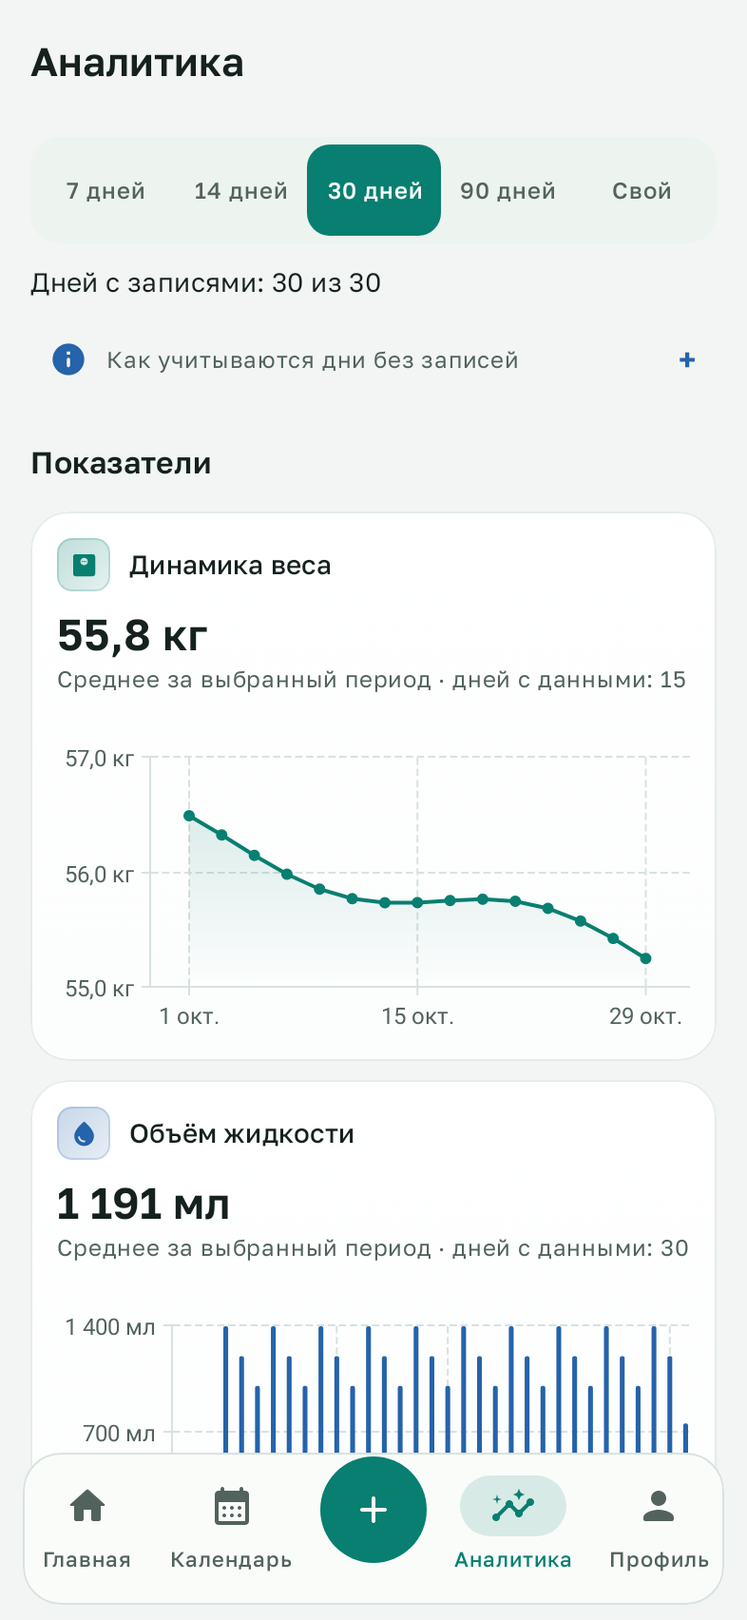
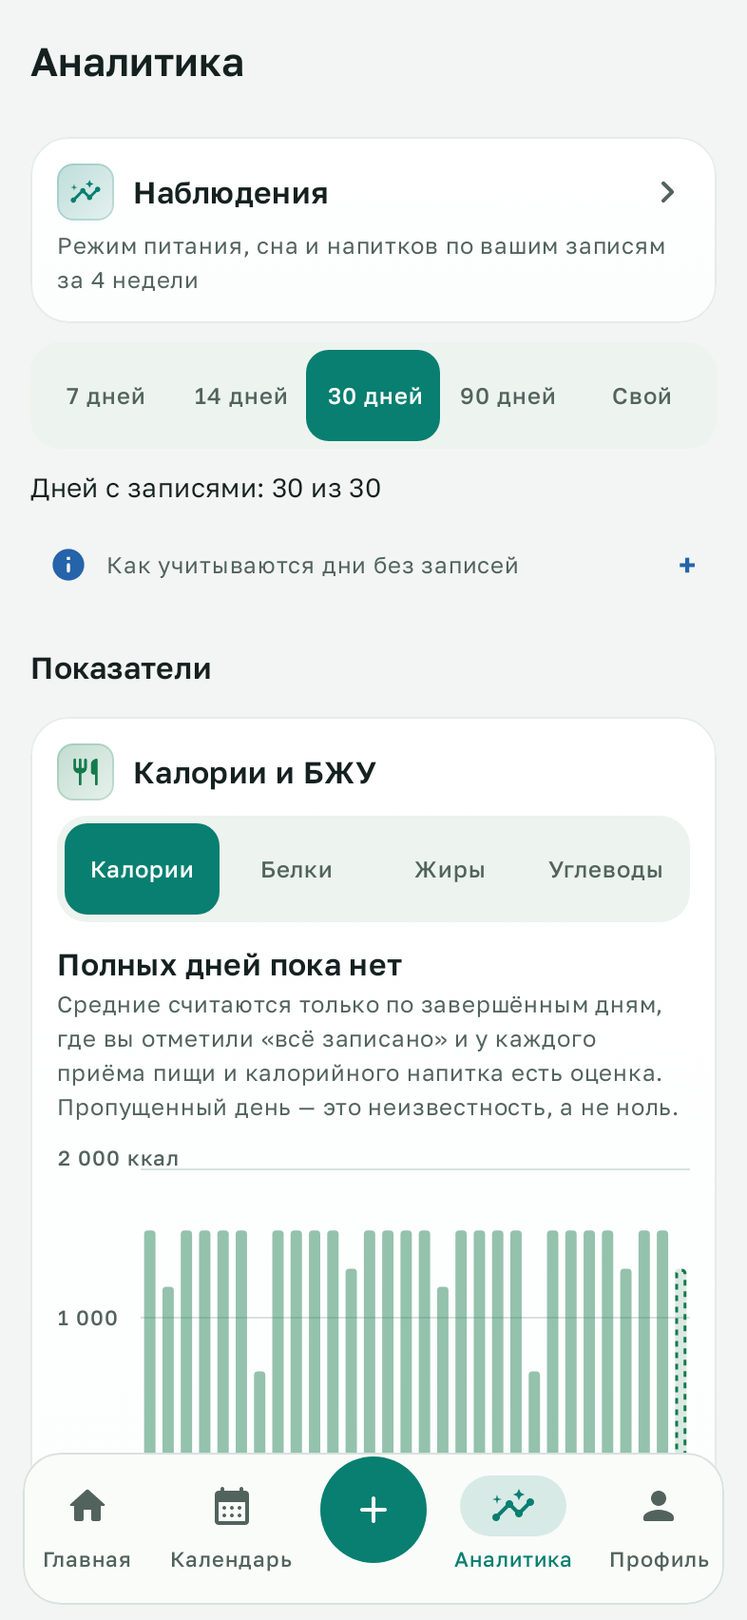
Document drink energy, full days and the intake chart; bump to 1.9.0
docs/intake.md describes drink energy and its defaults, the link to a
meal, the day total and its states, the chart and the observations that
use complete days only. README, insights, data safety and meals docs
point to it; release notes for 1.9.0 (versionCode 11) say that older
drinks and templates keep an unknown energy.

Claude-Session: https://claude.ai/code/session_01XiGzQFSXEqEG1oN3wuxTaX

diff --git a/docs/intake.md b/docs/intake.md
@@ -1,0 +1,94 @@
+# Калории за день: напитки, полные дни и график
+
+Итог дня складывается из еды и калорийных напитков. Каждая запись учитывается один раз. Неизвестное значение остаётся неизвестным. Средние считаются только по дням, которые можно честно назвать потреблением за день.
+
+![График калорий и состав дня](screenshots/50-intake-chart.png)
+
+## Калорийность напитков
+
+В редакторе напитка есть раздел «Калорийность»:
+
+| Выбор | Что значит |
+| --- | --- |
+| Без калорий | Чай или кофе без добавок, вода. День из-за такого напитка неполным не становится. |
+| Указать | Ккал и при желании Б/Ж/У. Можно указать **на 100 мл**, как на этикетке (тогда значение растёт с объёмом), или **на весь напиток**: например, ложка сахара не удваивается от большой кружки. |
+| Не знаю | Калорийность неизвестна. День с таким напитком считается оценённым не полностью. |
+
+Примерные значения подставляются одним нажатием: молоко 1,5 / 2,5 / 3,2 %, кефир, сок, сладкая газировка, капучино, какао, ложка сахара. Это средние значения, точнее всего данные с этикетки.
+
+Что выбрано заранее:
+
+- Вода всегда без калорий, указывать ничего не нужно.
+- Новый чай и кофе начинаются с «Без калорий». Выбор виден в редакторе и меняется одним нажатием. Быстрое добавление чая и кофе тоже записывает «Без калорий».
+- Молоко, сок и «другой напиток» начинаются с «Не знаю».
+- Шаблон напитка хранит свою калорийность и передаёт её каждой записи из шаблона.
+- Напитки и шаблоны, записанные до версии 1.9.0, сохраняют неизвестную калорийность. Старый кофе не считается кофе без молока. Откройте шаблон один раз и выберите нужный вариант.
+
+В списке напитков рядом с объёмом показано «≈90 ккал» или «ккал не указаны». Для воды и напитков без калорий там ничего не пишется.
+
+## Напиток к приёму пищи
+
+Напиток можно привязать к приёму пищи того же дня («К приёму пищи» в редакторе напитка). Приём пищи показывает привязанные напитки в разделе «Напитки к этому приёму». Там же кнопка «Добавить напиток к приёму» открывает новый напиток со временем приёма.
+
+Напиток остаётся отдельной записью: его объём идёт в жидкость, а калории в итог дня. В итог самого приёма пищи они не добавляются, поэтому ничего не считается дважды. Если тот же напиток уже записан блюдом (например, компот на фото обеда), удалите одно из двух. Приложение напоминает об этом рядом с привязанными напитками. Если напиток перенести на другой день, привязка снимается. После удаления приёма с отменой привязка возвращается вместе с приёмом.
+
+## Итог дня
+
+Итог дня считает одно место в коде, `DayIntake`. Дневник, график, наблюдения и экспорт берут цифры оттуда.
+
+- В итог идут приёмы пищи и напитки, которые могут нести калории. Вода и напитки без калорий не учитываются.
+- Каждый показатель (ккал, белки, жиры, углеводы) имеет своё покрытие: калории могут быть известны у всех записей, а жиры только у части.
+- Если значение есть не у всех записей, итог подписан «известно ≈1 200 ккал». Рядом стоит «Оценено 3 из 4 записей: итог неполный». В «известно» входит и известная часть приёма с частично оценёнными блюдами, поэтому сумма совпадает с тем, что видно в дневнике.
+- Если калории есть и у еды, и у напитков, показано, из чего сложился итог: «Еда ≈1 500 ккал + напитки ≈90 ккал».
+
+## Полный день
+
+Оценки по записям не равны всему, что было съедено. Если один приём забыли записать, сумма остальных не является потреблением за день. Поэтому есть отметка **«Всё за день записано»**. Её ставит сам пользователь: в карточке «Сегодня» дневника питания, переключателем «всё записано» у прошлых дней и в составе дня на графике.
+
+У дня одно из состояний:
+
+| Состояние | Когда |
+| --- | --- |
+| Полный день | День закончился, отмечен «всё записано», у каждого приёма и калорийного напитка есть значение. |
+| Не отмечен как полный | Всё оценено, но отметки нет. |
+| Оценено не всё | У какой-то записи нет значения. |
+| Сегодня, день ещё идёт | Текущий день не входит в завершённые средние, даже если отмечен. |
+| Нет записей | Ни еды, ни калорийных напитков. Это неизвестность, а не ноль. |
+
+Отметка говорит только о полноте записей, не о точности: оценка по фото остаётся оценкой.
+
+## График «Калории и БЖУ»
+
+В «Аналитике» над остальными показателями есть карточка с периодами 7/14/30/90 дней и своим интервалом. Переключатель выбирает ккал, белки, жиры или углеводы. Разные единицы на одной шкале не смешиваются.
+
+- Столбец на каждый день. Полный день закрашен. Не отмеченный как полный закрашен светлее. Оценённый не полностью показан контуром. Сегодня обведено пунктиром. День без записей отмечен точкой у оси, а не нулевым столбцом. Пропуски ничем не соединяются.
+- Над графиком среднее только по полным завершённым дням и их число: «среднее по 5 полным дням из 29 завершённых». Если таких дней нет, так и написано, и объяснено, как они появляются.
+- Нажатие на столбец открывает состав дня: каждый приём и напиток со своим значением (или «не указано»), состояние дня и переключатель «Всё за день записано». Запись открывается нажатием. Для ккал при известных Б/Ж/У показана грубая проверка «Из БЖУ ≈… ккал» по 4/9/4 ккал на грамм.
+
+Ориентиров по калориям пока нет. Они появятся на следующем этапе, вместе с профилем, и будут храниться с датой начала действия.
+
+## Наблюдения
+
+Наблюдения «Питание по полным дням» и «Сон и питание» считаются только по полным дням (минимум 5 дней; для сна и питания 7 пар «день + ночь»). Напитки с калориями входят и в среднее, и в долю калорий после 18:00. В облачный разбор этот факт передаётся как `complete_days` (контракт версии 4). Ограничение данных в обзоре за 4 недели называет, сколько полных дней есть среди дней с едой, и предлагает отмечать такие дни.
+
+## База, резервная копия и экспорт
+
+База обновляется до версии 4 миграцией 3→4: у напитков и шаблонов появляется калорийность (пустая у прежних записей), у напитков появляется связь с приёмом, добавлена таблица отмеченных дней. Всё это входит в резервную копию и стирается вместе с дневником.
+
+В CSV-архиве у `drinks.csv` есть колонки `energy` (none / value / unknown), ккал и Б/Ж/У этого напитка, `entered_per` и `meal_id`. Новый `days.csv` содержит по строке на каждый день периода: состояние, отметку, число записей, известную сумму и сколько записей оценено по каждому показателю. В JSON-выгрузке у напитков есть `nutrition` и `mealId`, а список `daysRecordedFully` содержит отмеченные дни.
+
+## Проверка
+
+- `DayIntakeTest` проверяет:
+  - еду и сок, сложенные один раз, без воды и чая без калорий;
+  - что неизвестный напиток не превращается в ноль;
+  - известную часть частично оценённого приёма;
+  - все состояния дня и отдельное покрытие каждого показателя;
+  - значения на 100 мл и на весь напиток;
+  - средние только по полным дням и пустые дни как пропуски.
+- `InsightEngineTest` проверяет, что дни с неоценённым приёмом или без отметки не дают «Питания по полным дням», и что напитки входят в среднее и в вечернюю долю.
+- `DrinkEditorSafetyTest` проверяет выбор по типу, сохранение выбранного значения при смене типа, блокировку сохранения при недописанном числе, открытие старого напитка как неизвестного и привязку к приёму с её снятием при переносе на другой день.
+- `NutritionMigrationTest` проверяет базу версии 3: старый кофе и шаблон остаются неизвестными, новые значения, привязка и отметки дней сохраняются.
+- `IntakeUiTest` в настоящем приложении проверяет среднее по трём полным дням, состав неполного и полного дня, снятие отметки и переход к напитку.
+
+![Калорийность напитка](screenshots/51-drink-energy.png)

diff --git a/docs/releases/v1.9.0.md b/docs/releases/v1.9.0.md
@@ -1,0 +1,18 @@
+Калорийные напитки, полные дни и график калорий и БЖУ.
+
+Изменения:
+
+- У напитка есть калорийность: «Без калорий», «Указать» (на 100 мл, как на этикетке, или на весь напиток) или «Не знаю». Примерные значения для молока, кефира, сока, газировки, капучино, какао и ложки сахара подставляются одним нажатием. Вода всегда без калорий, новый чай и кофе начинаются с «Без калорий». Шаблоны напитков хранят свою калорийность.
+- Напиток можно привязать к приёму пищи: в приёме он виден, а объём и калории считаются один раз, в напитках.
+- Итог дня складывается из еды и калорийных напитков. Если что-то не оценено, итог подписан «известно ≈X» и показано, сколько записей оценено.
+- Отметка «Всё за день записано» в дневнике питания. Средние и наблюдения о питании считаются только по полным дням: день закончился, отмечен и у каждой записи есть оценка. Сумма части записей больше не выдаётся за потребление за день.
+- В «Аналитике» есть график «Калории и БЖУ». Полные, неотмеченные, неполные дни и сегодня выглядят по-разному, день без записей остаётся пропуском, а не нулём. Среднее показано по полным дням с их числом. Нажатие на день показывает его состав и позволяет отметить его полным.
+- В CSV-архиве у напитков есть калорийность и привязка к приёму, добавлен `days.csv` с итогом и покрытием каждого дня.
+
+Важно: напитки и шаблоны, записанные раньше, сохраняют неизвестную калорийность. Старый кофе не считается кофе без молока. Если в шаблоне чай или кофе без добавок, откройте шаблон и выберите «Без калорий». Средних по калориям не будет, пока не появятся отмеченные полные дни.
+
+Скачайте и откройте **NUTRIX.apk** из файлов релиза. Требуется Android 10 или новее. Версия приложения: **1.9.0-personal**, versionCode **11**.
+
+APK подписан прежним проектным сертификатом и устанавливается обновлением поверх предыдущей версии без удаления приложения и данных. Контрольная сумма находится в SHA256SUMS.txt.
+
+База данных обновляется до версии 4 автоматически, прежние записи не меняются. Резервные копии прежних версий восстанавливаются как раньше. Приложение не ставит диагнозы и не заменяет консультацию врача.

diff --git a/docs/insights.md b/docs/insights.md
@@ -9,8 +9,8 @@
 | Режим питания | ≥ 7 дней с едой | Медианы первого и последнего приёма, окно питания, приёмов в день, межквартильный разброс времени первого приёма, дни с началом после 12:00. Перекус с 00:00 до 04:00 относится к прошлому вечеру. |
 | Поздний последний приём | ≥ 3 таких дня и ≥ 30 % дней | С данными сна — меньше 2 ч до засыпания; без них — после 22:00. При ≥ 4 ночах каждого вида и разнице ≥ 20 мин показана разница сна. |
 | Длинные перерывы | ≥ 3 дней и ≥ 25 % дней с двумя приёмами | Перерыв между приёмами пищи больше 6 ч и медиана самого длинного перерыва дня. |
-| Питание по оценкам | ≥ 5 дней, где ≥ 2 и ≥ 70 % приёмов имеют оценку ккал | Средние ккал, БЖУ (если они оценены у большинства приёмов) и доля калорий после 18:00. |
-| Сон и питание | ≥ 4 коротких и ≥ 4 других ночей, разница ≥ 200 ккал | Ккал в день после ночи, которая на час короче вашей медианы, против других дней. |
+| Питание по полным дням | ≥ 5 полных дней: отмечены «всё записано», у каждого приёма и калорийного напитка есть оценка ([подробнее](intake.md)) | Средние ккал с напитками, БЖУ (по ≥ 5 дням, где оценён этот показатель) и доля калорий после 18:00. Дни с неоценённым приёмом или без отметки не используются: сумма части записей — не потребление за день. |
+| Сон и питание | ≥ 7 полных дней с ночью, ≥ 4 коротких и ≥ 4 других ночей, разница ≥ 200 ккал | Ккал полного дня после ночи, которая на час короче вашей медианы, против других полных дней. |
 | Напитки | ≥ 7 дней с напитками | Медиана за день, доля до 14:00, дни с достигнутым ориентиром. |
 | Кофе после 16:00 | ≥ 4 ночей каждого вида, сдвиг ≥ 20 мин | Время засыпания и длительность сна после дней с кофе после 16:00 против других дней. |
 | Режим сна | ≥ 7 ночей | Медиана сна и отхода ко сну, разброс, сдвиг подъёма в выходные. |

diff --git a/docs/data-safety.md b/docs/data-safety.md
@@ -124,6 +124,14 @@ Gemini получает только выбранное фото без EXIF/GPS
 не трогает прежние общие оценки и не делит их между продуктами. Результат распознавания фото не меняет
 уже введённые числа без выбора пользователя. Подробнее: [несколько блюд](meals.md).
 
+## Калорийность напитков и полные дни
+
+Калорийность напитков, их привязка к приёму пищи и отметки «всё за день записано» хранятся в базе
+(версия 4), входят в резервные копии и стираются вместе с дневником. Обновление базы не приписывает
+прежним напиткам и шаблонам никакой калорийности: они остаются «не знаю». Отметка дня — это слова
+пользователя о полноте записей; средние и наблюдения по калориям считаются только по таким дням.
+Подробнее: [калории за день](intake.md).
+
 ## Наблюдения и разбор 4 недель
 
 Наблюдения и обзор за 4 недели считаются на устройстве и работают без сети. Облачный разбор 4 недель

diff --git a/docs/meals.md b/docs/meals.md
@@ -27,6 +27,10 @@
 
 При обновлении базы до версии 3 старые приёмы пищи и избранное сохраняют свою общую оценку и список продуктов. Блюда для них не создаются.
 
+## Напитки к приёму
+
+Калорийный напиток лучше записать напитком и привязать к приёму пищи. Тогда его объём попадёт в жидкость, а калории в итог дня, и посчитаются один раз. Приём пищи показывает такие напитки, но не добавляет их в свой итог. Подробнее: [калории за день](intake.md).
+
 ## Распознавание фото
 
 Если в приёме ещё нет чисел, результат распознавания заполняет поля, как раньше, а значения, которые вы изменили во время запроса, сохраняются. Если числа уже есть, результат ничего не заменяет сам. Карточка распознавания предлагает выбрать:
